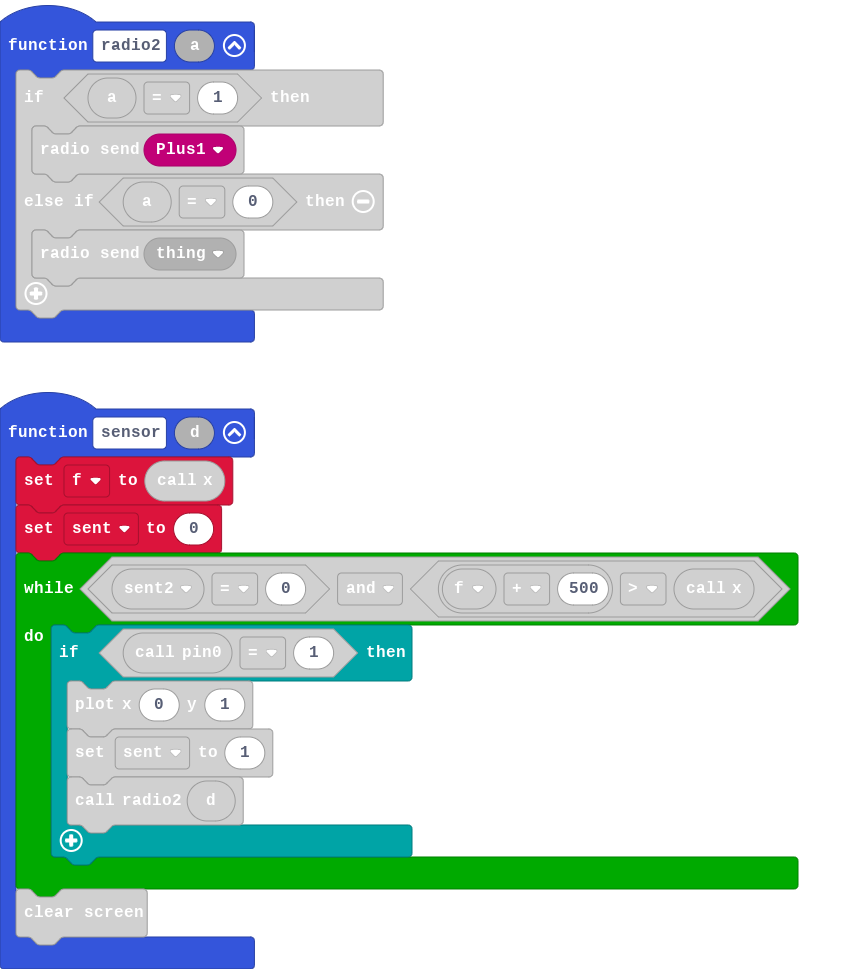
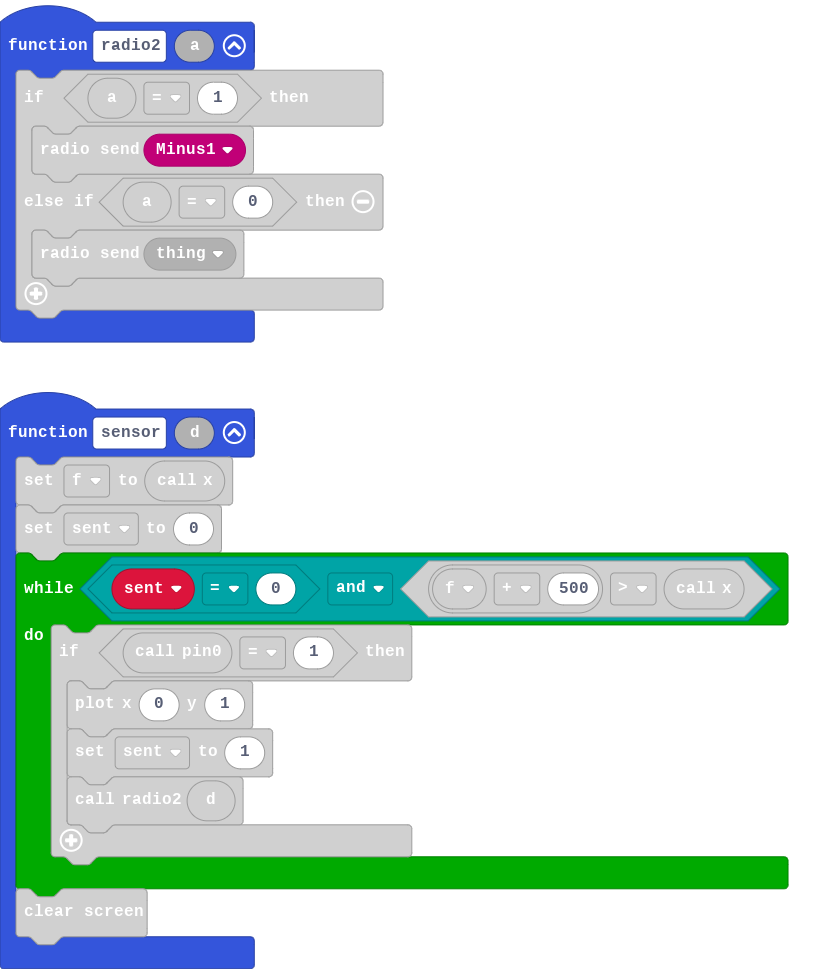
Update main.blocks, main.ts

diff --git a/main.ts b/main.ts
@@ -6,16 +6,15 @@ enum RadioMessage {
 }
 function radio2 (a: number) {
     if (a == 1) {
-        radio.sendMessage(RadioMessage.Plus1)
+        radio.sendMessage(RadioMessage.Minus1)
     } else if (a == 0) {
         radio.sendMessage(RadioMessage.thing)
     }
 }
 function sensor (d: number) {
-    let sent2 = 0
     f = x()
     sent = 0
-    while (sent2 == 0 && f + 500 > x()) {
+    while (sent == 0 && f + 500 > x()) {
         if (pin0() == 1) {
             led.plot(0, 1)
             sent = 1
